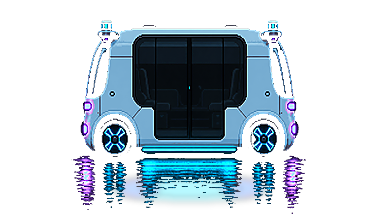
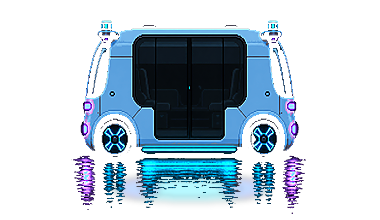
Boost Zoox body to a clearer blue
Increase saturation so the carriage reads blue on the night road, not
cool gray, while keeping cyan/purple neon accents.

diff --git a/scripts/art/make_zoox_robotaxi.py b/scripts/art/make_zoox_robotaxi.py
@@ -81,10 +81,11 @@ def polish_colors(img: Image.Image) -> Image.Image:
     body = (a > 160) & (~neon_cyan) & (~neon_purp) & (~dark) & (sat < 0.38) & (lum > 85)
 
     t = np.clip((lum - 90) / 140.0, 0, 1)
-    br = 74 + t * 90
-    bg_ = 139 + t * 70
-    bb = 184 + t * 50
-    blend = 0.84
+    # Clearer Zoox blue (shade → mid → highlight), not cool gray.
+    br = 48 + t * 95
+    bg_ = 118 + t * 85
+    bb = 188 + t * 55
+    blend = 0.92
     r = np.where(body, r * (1 - blend) + br * blend, r)
     g = np.where(body, g * (1 - blend) + bg_ * blend, g)
     b = np.where(body, b * (1 - blend) + bb * blend, b)
